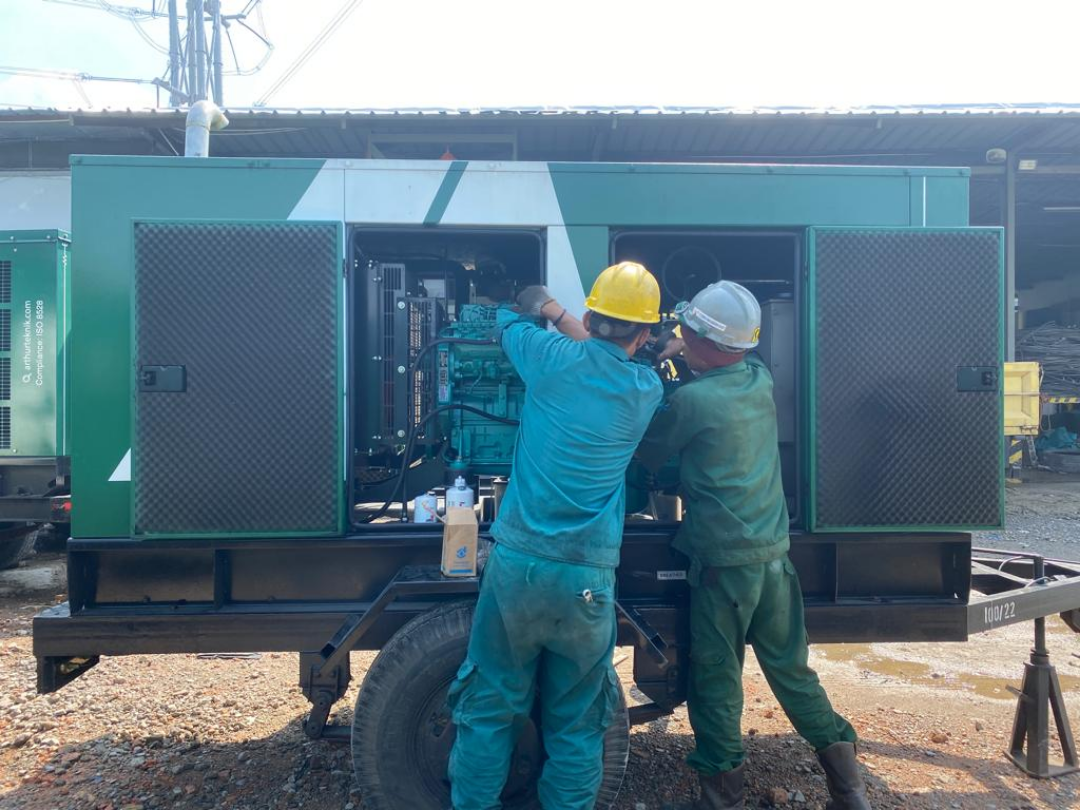
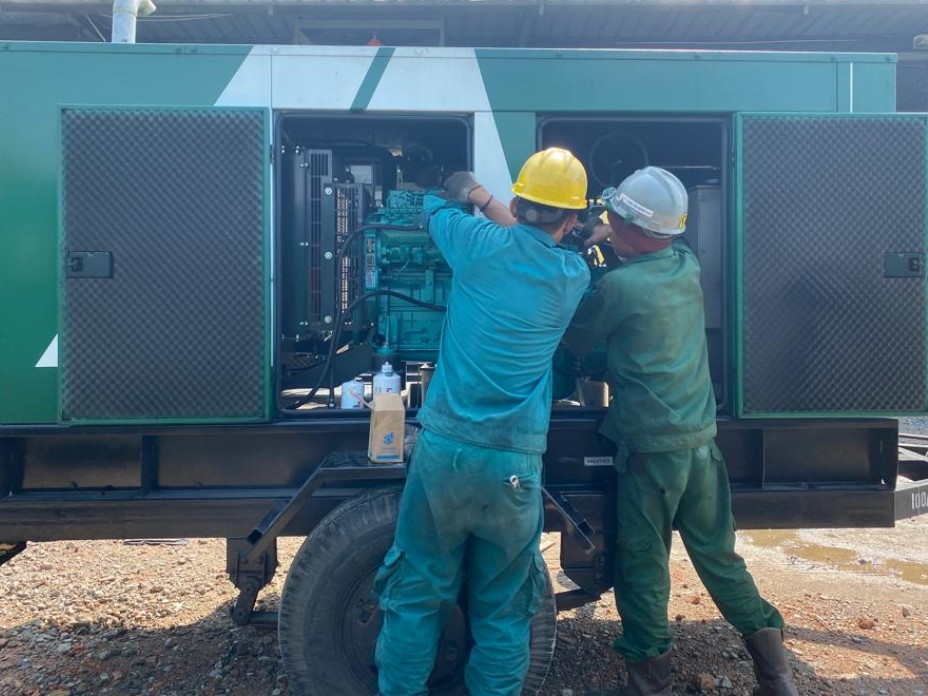
style: adjust MasalahSection styling

diff --git a/src/components/sections/HeroSection.tsx b/src/components/sections/HeroSection.tsx
@@ -14,7 +14,7 @@ export default function HeroSection() {
 
   return (
     <section className="md:p-3">
-      <div className="relative flex h-fill min-h-[70dvh] pb-[4%] flex-col items-center justify-center overflow-hidden bg-gradient-to-br from-brand-950 via-brand-900 to-brand-700 px-6 text-center text-[#f0f0f0] md:items-start md:justify-start md:rounded-3xl md:px-10 md:text-left">
+      <div className="relative flex h-fill min-h-[70dvh] pb-[4%] flex-col items-center justify-center overflow-hidden bg-gradient-to-br from-brand-950 via-brand-900 to-brand-700 px-6 py-8 text-center text-[#f0f0f0] md:items-start md:justify-start md:rounded-3xl md:px-10 md:text-left">
         <CircuitAccent />
         {/* lg:max-w-[52%] keeps the copy clear of the product image, which starts
             at 72% − half its width. Both are percentages so they scale together. */}

diff --git a/src/components/sections/ProblemSection.tsx b/src/components/sections/ProblemSection.tsx
@@ -76,7 +76,7 @@ export default function ProblemSection() {
       <div
         className={cn(
           KONTEN_SECTION,
-          pinned && "sticky top-0 flex h-screen flex-col justify-center pb-16 pt-24"
+          pinned && "sticky top-0 flex h-screen flex-col justify-center pb-6 pt-24"
         )}
       >
         {/* Heading is plain (no fade) while pinned; the static layout keeps the usual scroll-in. */}
@@ -101,7 +101,7 @@ export default function ProblemSection() {
           )}
         </div>
         {pinned && (
-          <ScrollHint dark={!hintWhite} className="absolute bottom-8 right-8 md:right-10" />
+          <ScrollHint dark={!hintWhite} className="absolute bottom-12 right-8 md:right-10" />
         )}
       </div>
     </section>
